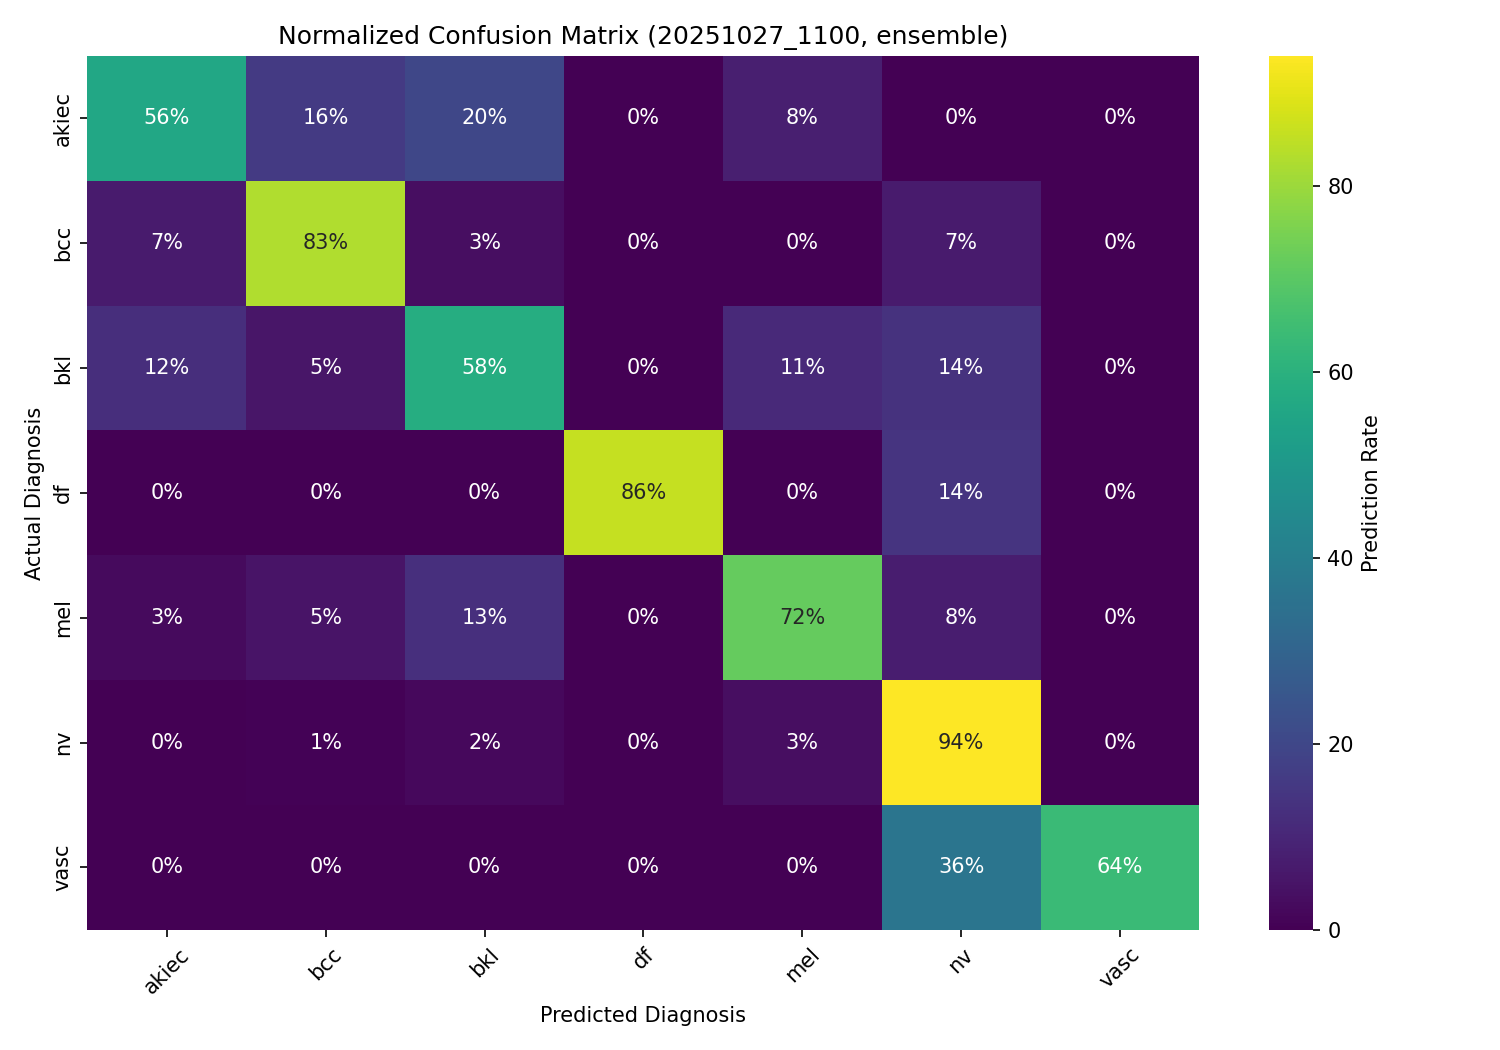
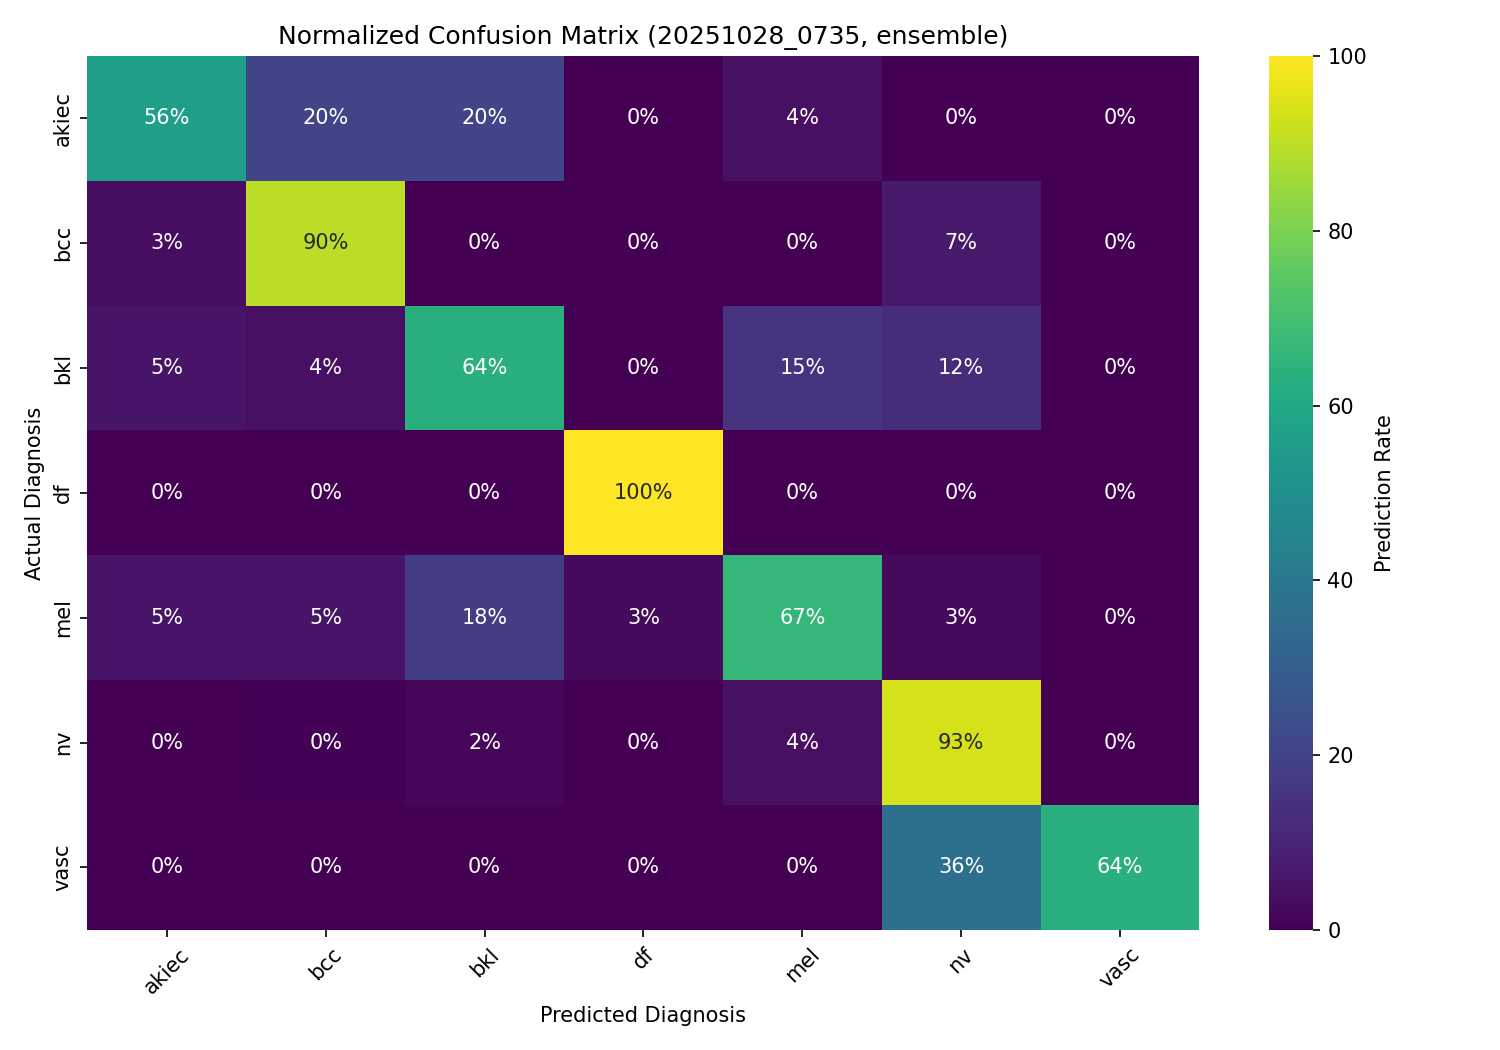
docs: add new test results

diff --git a/README.md b/README.md
@@ -136,8 +136,8 @@ This iterative workflow was employed to balance computational efficiency with ma
 | Model          | Accuracy | Macro-F1 |
 |----------------|----------|----------|
 | EfficientNetB1 | 86.6%    | 0.713    |
-| ResNet50       | 86.4%    | 0.614    |
-| Ensemble       | 88.3%    | 0.718    |
+| ResNet50       | 86.1%    | 0.649    |
+| Ensemble       | 88.4%    | 0.730    |
 
 ### Confusion Matrix
 ![Confusion matrix](assets/confusion_matrix.png)
